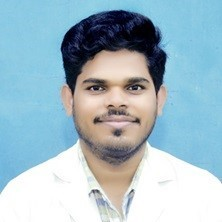
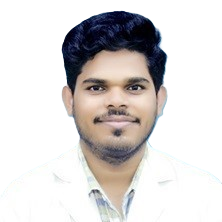
transparent background doctor image

diff --git a/app/DoctorSection.jsx b/app/DoctorSection.jsx
@@ -29,7 +29,7 @@ export default function DoctorSection() {
                         <img
                             src={doctor.image}
                             alt={doctor.name}
-                            className="w-48 h-48 rounded-full object-cover shadow-md mb-4"
+                            className="w-48 h-48 rounded-full object-cover shadow-md mb-4 border-white dark:border-black border"
                         />
                         <h4 className="text-2xl font-bold mb-2 text-gray-800 dark:text-white">
                             {doctor.name}
